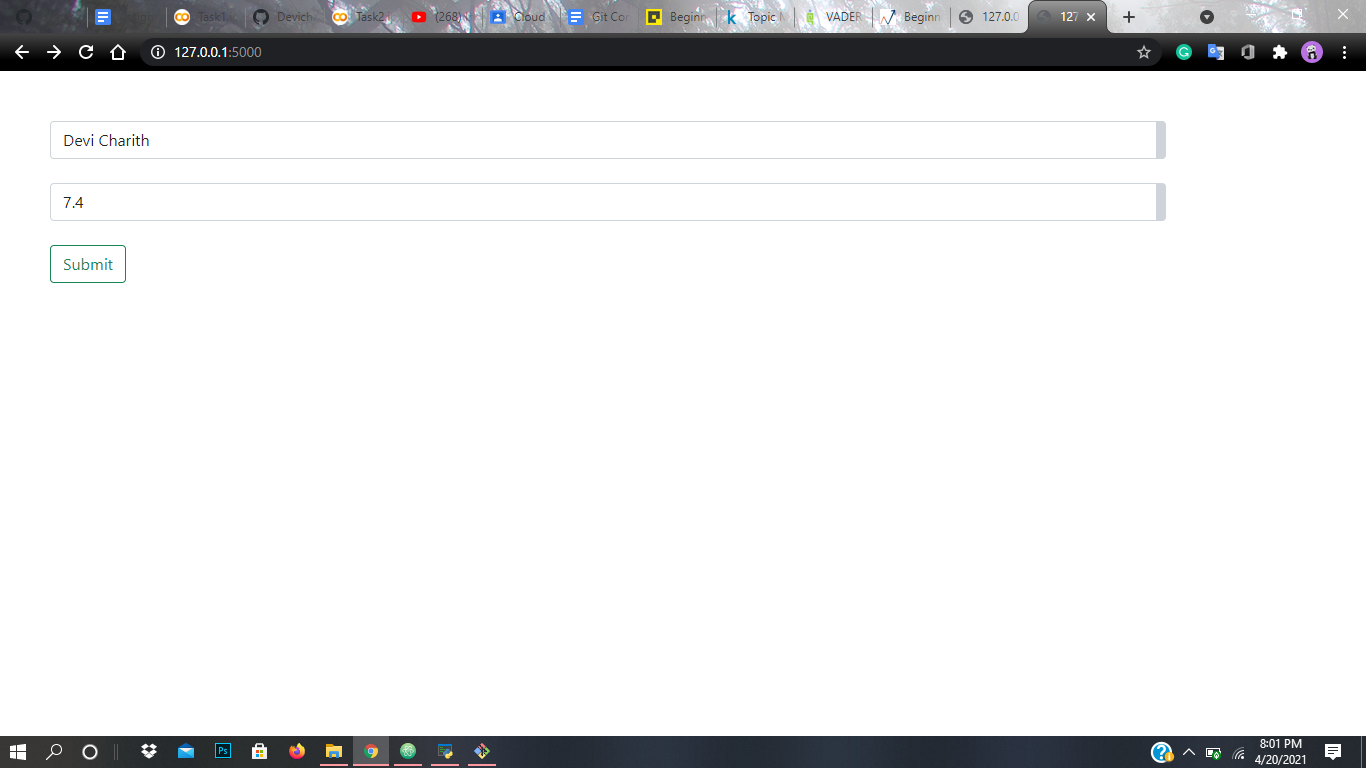
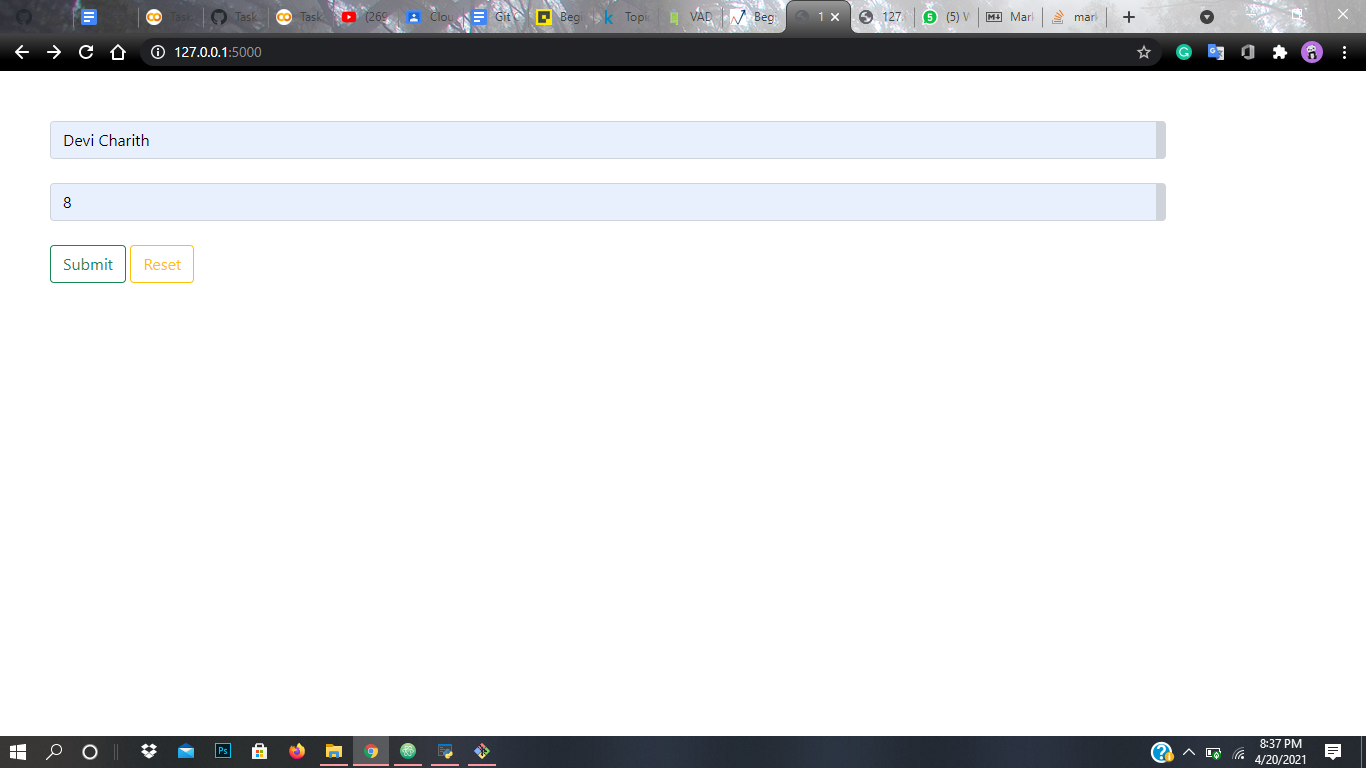
Added Outputs

Changed region(s): [[0.0615, 0.0, 0.8302, 0.0625], [0.0922, 0.3125, 0.123, 0.375], [0.0307, 0.25, 0.0615, 0.2812]]

diff --git a/templates/index.html b/templates/index.html
@@ -10,7 +10,8 @@
             <input class="form-control" type="text" name="name" placeholder="Enter your name" aria-label="default input example" style="border-right-width: 10px;
     padding-right: 0px;"><br>
             <input class="form-control" type="text" name="sleep" placeholder="Number of hours you sleep" aria-label="default input example" style="border-right-width: 10px;"><br>
-            <button type="submit|reset" class="btn btn-outline-success"> Submit </button>
+            <button type="submit" class="btn btn-outline-success"> Submit </button>
+            <button type="reset" class="btn btn-outline-warning"> Reset </button>
         </form>
     </body>
 </html>
